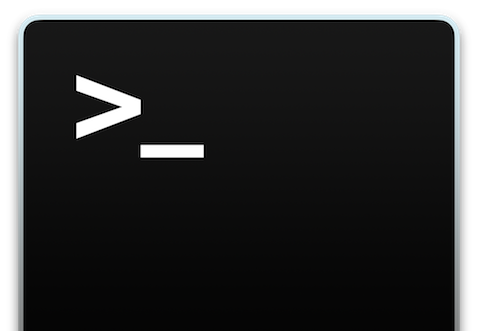
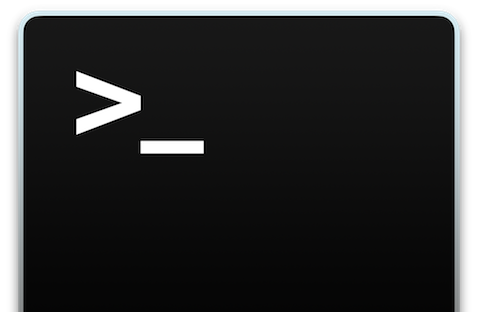
testing 17

diff --git a/index.html b/index.html
@@ -511,7 +511,7 @@ Gravity Ball & Blocks (2017) is a simple, yet addicting game that saves personal
 				<div class="filtr-item w3layouts agileits" data-category="1" data-sort="City lights">
 					<a href="images/terminal.png" class="b-link-stripe w3layouts agileits b-animate-go thickbox">
 						<figure>
-							<img src="images/terminal2.png" class="img-responsive w3layouts agileits" alt="Affiliation">
+							<img src="images/terminal3.png" class="img-responsive w3layouts agileits" alt="Affiliation">
 							<figcaption>
 								<h3>SHELL</h3>
 							</figcaption>
